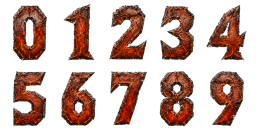
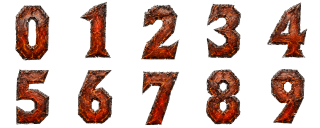
fix numberImage

diff --git a/AGS2026Sum/Src/Manager/GameSystem/ComboManager.cpp b/AGS2026Sum/Src/Manager/GameSystem/ComboManager.cpp
@@ -79,14 +79,14 @@ void ComboManager::DrawComboUI(void)
 	}
 
 	const int drawPos_Y = 120;			//描画位置Y(共通)
-	const int comboStartPos_X = 100;	//「COMBO」描画位置X
-	const int numberPosOffset_X = 20;	//数字ごとの位置調整差分
+	const int comboStartPos_X = 200;	//「COMBO」描画位置X
+	const int numberPosOffset_X = 100;	//数字ごとの位置調整差分
 
-	const double exRate = 1.0;			//拡大率
+	const double exRate = 0.7;			//拡大率
 	const double angle = 0.0;			//回転
 
 	//「COMBO」の表示
-	DrawRotaGraph(comboStartPos_X, drawPos_Y, exRate, angle, comboStringImage_, false);
+	DrawRotaGraph(comboStartPos_X, drawPos_Y, exRate, angle, comboStringImage_, true);
 
 	std::vector<int>digitNumbers;	//桁それぞれを保持
 	int remainingCombo = comboCount_;
@@ -104,13 +104,14 @@ void ComboManager::DrawComboUI(void)
 
 	//描画初期位置
 	int numberDrawPos_X = comboStartPos_X - numberPosOffset_X;
+	const int numberDrwaOffset_X = 40;
 
 	for (int& useNumber : digitNumbers) {
 		//数字の描画
-		DrawRotaGraph(numberDrawPos_X, drawPos_Y, exRate, angle, numberImages_[useNumber], false);
+		DrawRotaGraph(numberDrawPos_X, drawPos_Y, exRate, angle, numberImages_[useNumber], true);
 
 		//位置差分
-		numberDrawPos_X -= numberPosOffset_X;
+		numberDrawPos_X -= numberDrwaOffset_X;
 	}
 }
 

diff --git a/AGS2026Sum/Src/Manager/Generic/ResourceManager.cpp b/AGS2026Sum/Src/Manager/Generic/ResourceManager.cpp
@@ -80,7 +80,7 @@ void ResourceManager::InitGame(void)
 	res = Resource(Resource::TYPE::MODEL, Application::PATH_STAGE + L"DoorLeft.mv1");
 	resourcesMap_.emplace(SRC::DOOR_LEFT_MDL, res);
 
-	res = Resource(Resource::TYPE::IMGS, Application::PATH_UI + L"comboNumber.png", 5, 2, 52, 64);
+	res = Resource(Resource::TYPE::IMGS, Application::PATH_UI + L"comboNumber.png", 5, 2, 64, 64);
 	resourcesMap_.emplace(SRC::COMBO_NUMBER_IMG, res);
 
 	res = Resource(Resource::TYPE::IMG, Application::PATH_UI + L"ComboUI.png");
